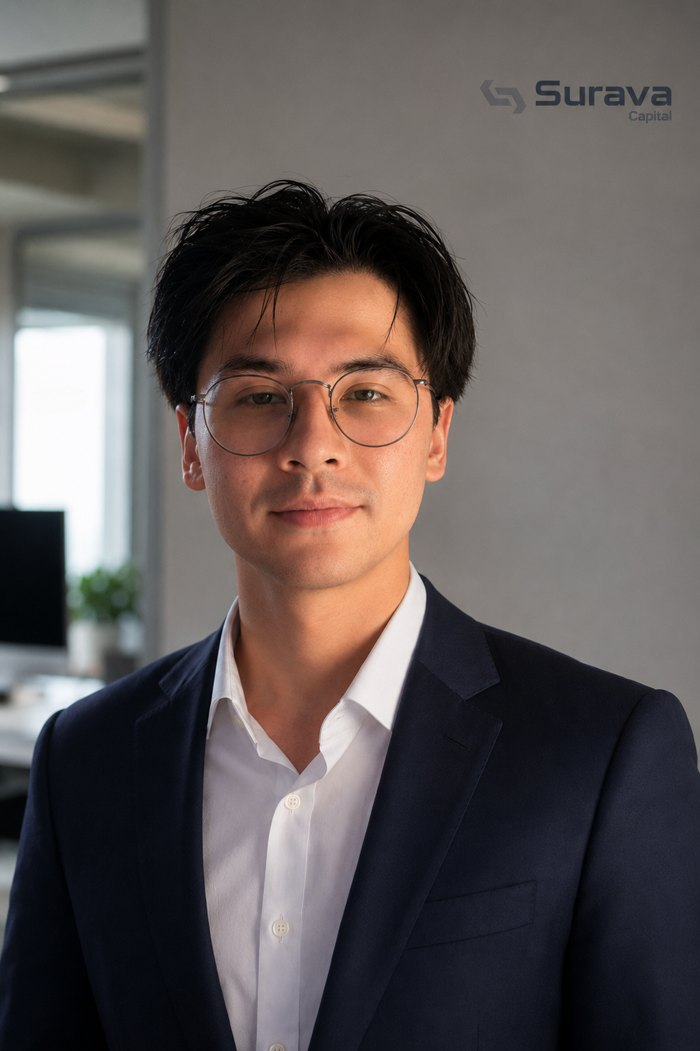
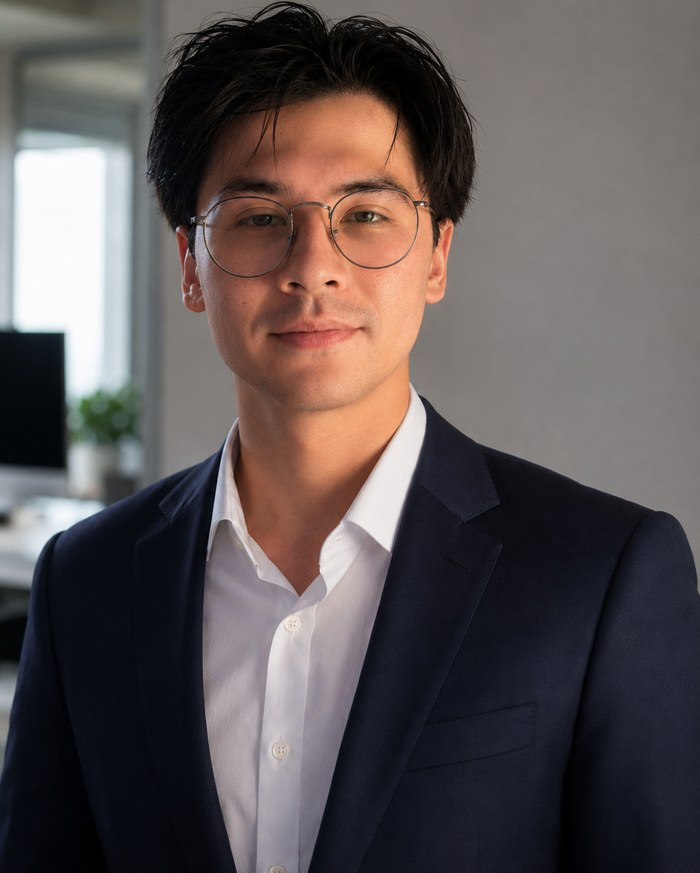
Reframe Yves headshot crop; inline pricing pills

diff --git a/pricing.html b/pricing.html
@@ -86,8 +86,7 @@
       <div class="grid grid-3">
         <div class="price-card">
           <span class="tag">Foundations</span>
-          <span class="planned-tag">Indicative</span>
-          <h3>Plan Only</h3>
+          <h3>Plan Only <span class="planned-tag">Indicative</span></h3>
           <div class="price">CHF 1,200 <span>/ one-time</span></div>
           <p>A one-time comprehensive financial plan, intended for those who want a roadmap and prefer to implement it themselves.</p>
           <ul>
@@ -101,8 +100,7 @@
         </div>
         <div class="price-card featured">
           <span class="tag">Most comprehensive</span>
-          <span class="planned-tag">Indicative</span>
-          <h3>Ongoing Advisory</h3>
+          <h3>Ongoing Advisory <span class="planned-tag">Indicative</span></h3>
           <div class="price">0.65% <span>of assets / year</span></div>
           <p>Continuous portfolio management plus financial planning, our most comprehensive intended offering, billed quarterly.</p>
           <ul>
@@ -117,8 +115,7 @@
         </div>
         <div class="price-card">
           <span class="tag">Comprehensive</span>
-          <span class="planned-tag">Later stage</span>
-          <h3>Wealth Management</h3>
+          <h3>Wealth Management <span class="planned-tag">Later stage</span></h3>
           <div class="price">Custom <span>quote</span></div>
           <p>For complex situations: business ownership, concentrated positions, or multi-generational planning.</p>
           <ul>

diff --git a/about.html b/about.html
@@ -161,13 +161,13 @@
       </div>
       <div class="grid grid-2">
         <div class="team-card">
-          <div class="photo" style="background-image:url('assets/yves-huppi.jpg'); background-size:cover; background-position:center top;"></div>
+          <div class="photo" style="background-image:url('assets/yves-huppi.jpg'); background-size:cover; background-position:center 18%; height:380px;"></div>
           <h3>Yves Hüppi</h3>
           <div class="role">Founder &amp; Macro Analyst</div>
           <p>Wirtschaftsingenieurwesen (industrial engineering and management) bachelor student at the ZHAW, with plans to complete a quantitative finance master at the University of Zurich and to pursue the CFA designation. Born in Eschenbach SG. Leads Surava Capital's macro analysis and world-events commentary.</p>
         </div>
         <div class="team-card">
-          <div class="photo" style="background-image:url('assets/avatar-placeholder.svg'); background-size:cover; background-position:center;"></div>
+          <div class="photo" style="background-image:url('assets/avatar-placeholder.svg'); background-size:cover; background-position:center; height:380px;"></div>
           <h3>Mathias Hinderer</h3>
           <div class="role">Co-founder &amp; Chart Trader</div>
           <p>Aspiring Business IT bachelor and part-time technical, chart-based trader. Handles the day-trading and technical-analysis side of Surava Capital, the real-time counterpart to the macro view.</p>